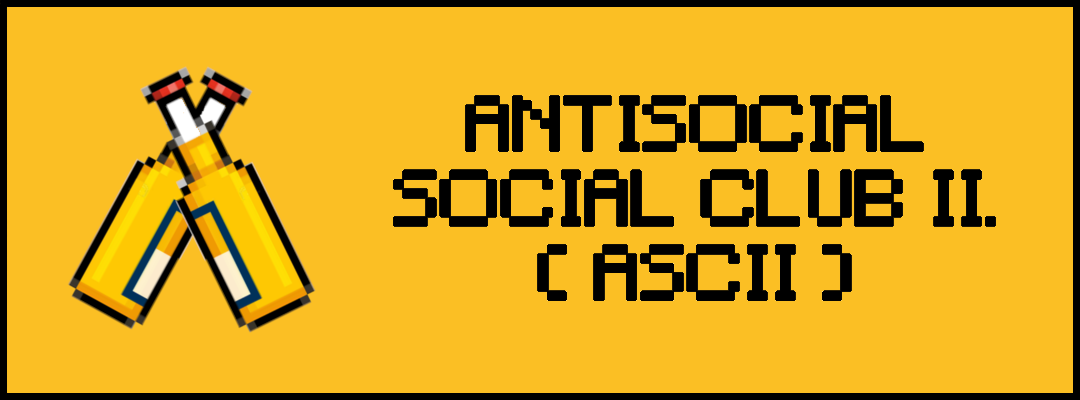
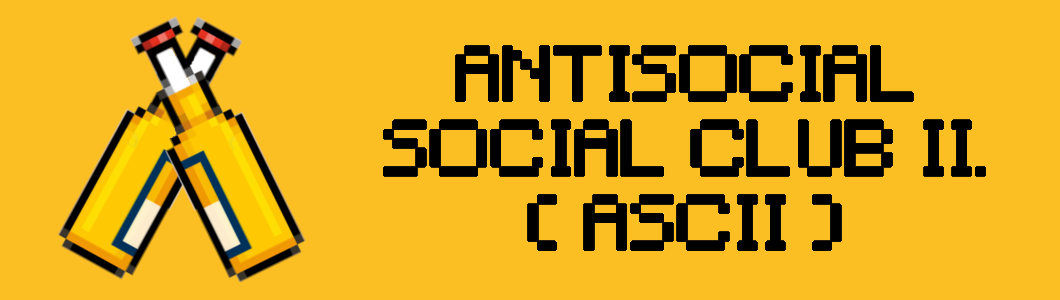
wip

Changed region(s): [[0.0, 0.0, 1.0, 1.0], [0.3425, 0.15, 0.934, 0.84]]

diff --git a/Szofttech/src/components/navbar.components.jsx b/Szofttech/src/components/navbar.components.jsx
@@ -7,19 +7,19 @@ const Navbar = ()=>
     return(
             <ul className="flex flex-row w-[1080px] justify-between bg-amber-400 items-center h-20 px-9 rounded-b-full border-solid border-black border-[6px] mt-2">
                 <li className="">
-                    <Link className="pixel hover:text-white text-lg text-[24px]" to="/"><p>Projekt terv</p></Link>
+                    <Link className="pixel hover:text-white text-lg text-[24px]" to="/"><p className="font-semibold">Projekt terv</p></Link>
                 </li>
                 <li className="">
-                    <Link className="hover:text-white text-lg text-[24px]" to="/errorpage"><p>Feladat 2</p></Link>
+                    <Link className="hover:text-white text-lg text-[24px]" to="/errorpage"><p className="font-semibold">Feladat 2</p></Link>
                 </li>
                 <li className="">
-                    <Link className="hover:text-white text-lg text-[24px]" to="/errorpage"><p>Feladat 3</p></Link>
+                    <Link className="hover:text-white text-lg text-[24px]" to="/errorpage"><p className="font-semibold">Feladat 3</p></Link>
                 </li>
                 <li className="">
-                    <Link className="hover:text-white text-lg text-[24px]" to="/errorpage"><p>Feladat 4</p></Link>
+                    <Link className="hover:text-white text-lg text-[24px]" to="/errorpage"><p className="font-semibold">Feladat 4</p></Link>
                 </li>
                 <li className="">
-                    <Link className="hover:text-white text-lg text-[24px]" to="/errorpage"><p>Feladat 5</p></Link>
+                    <Link className="hover:text-white text-lg text-[24px]" to="/errorpage"><p className="font-semibold">Feladat 5</p></Link>
                 </li>
             </ul>
     );

diff --git a/Szofttech/src/App.js b/Szofttech/src/App.js
@@ -8,14 +8,15 @@ import F4 from "./pages/h4Page";
 import ErrorPage from "./pages/errorpage";
 import Navbar from "./components/navbar.components";
 import F5 from "./pages/h5Page";
-import ASCII from "./assets/ascii2.png"
+import ASCII from "./assets/ASCII.png"
 function App() {
-  document.body.classList.add('bg-slate-200');
+  document.body.classList.add('bg-amber-400');
   return (
-    <div className="flex flex-col items-center h-screen w-screen">
+    <div className="flex flex-col items-center h-full">
     <Router>
+      <div className="bg-white px-8 py-1 rounded-lg shadow-xl my-2">
       <div className="flex flex-col items-center mt-4">
-      <img className="w-[1080px] h-[200px]" src={ASCII} alt=""></img>
+      <img className="w-[1080px] h-[200px] border-solid border-black border-[6px]" src={ASCII} alt=""></img>
       <Navbar/>
       </div>
       <Routes>
@@ -26,6 +27,7 @@ function App() {
         <Route path="/f5" element={<F5 />} />
         <Route path="/*" element={<ErrorPage />} />
       </Routes>
+      </div>
     </Router>
     </div>
   );

diff --git a/Szofttech/src/pages/errorpage.jsx b/Szofttech/src/pages/errorpage.jsx
@@ -5,7 +5,7 @@ import robot from "../assets/robot.png";
 function ErrorPage()
 {
     return(
-        <div className="flex flex-col justify-center items-center space-y-20  mt-4">
+        <div className="flex flex-col justify-center items-center space-y-20  my-4">
         <div className="text-[4rem]"><p>Sorry, this page is not found!</p></div>
         <div><img className="w-[30rem] h-[30rem]" src={robot} alt=""></img></div>
         </div>
